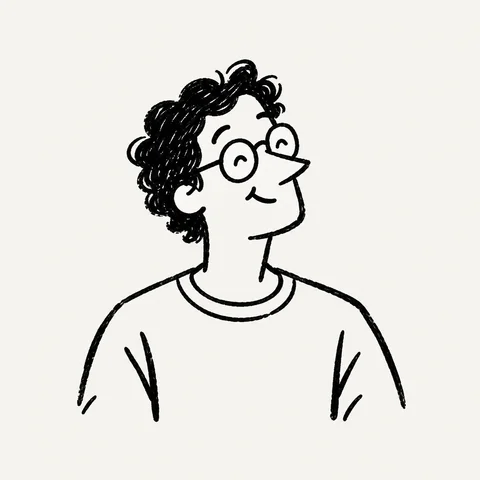
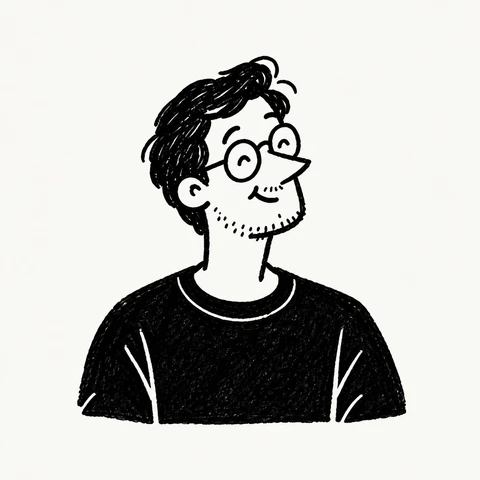
Update contributor portraits and imports for Aaron and Nigel

Changed region(s): [[0.1562, 0.0938, 0.8438, 0.9062]]

diff --git a/components/mini/ProjectInfo.tsx b/components/mini/ProjectInfo.tsx
@@ -1,4 +1,6 @@
 import Image from "next/image";
+import aaronPortrait from "@/public/contributors/aaron.webp";
+import nigelPortrait from "@/public/contributors/nigel.webp";
 import { DeliveryLocationProvider } from "@/components/DeliveryLocation";
 import { siteConfig } from "@/data/site";
 
@@ -159,12 +161,12 @@ export default function ProjectInfo() {
         <h2 id="contributors-title" className="contributors-heading">Contributors building the local food drop</h2>
         <div className="contributors-grid">
           {[
-            { name: "Aaron", role: "May-err", image: "aaron" },
-            { name: "Nigel", role: "Tick Talker", image: "nigel" },
-            { name: "Zara", role: "Silent Knight", image: "zara" },
+            { name: "Aaron", role: "May-err", image: aaronPortrait },
+            { name: "Nigel", role: "Tick Talker", image: nigelPortrait },
+            { name: "Zara", role: "Silent Knight", image: "/contributors/zara.webp" },
           ].map((contributor) => (
             <article className="contributor" key={contributor.name}>
-              <Image src={`/contributors/${contributor.image}.webp`} alt={`Line drawing representing ${contributor.name}`} width={480} height={480} sizes="(max-width: 480px) 160px, 220px" className="contributor-portrait" />
+              <Image src={contributor.image} alt={`Line drawing representing ${contributor.name}`} width={480} height={480} sizes="(max-width: 480px) 160px, 220px" className="contributor-portrait" />
               <h3>{contributor.name}</h3>
               <p className="contributor-role">{contributor.role}</p>
               <p className="contributor-handle">@thetownsquare.xyz</p>

diff --git a/public/contributors/ARTWORK.md b/public/contributors/ARTWORK.md
@@ -4,6 +4,14 @@ Generated with the built-in image generation tool, using `public/hero-three-chef
 
 These are illustrative avatars, not actual likenesses.
 
+## Hair and beard edits — September 19, 2026
+
+Edited using the built-in image generation tool and optimized to 480 × 480 WebP at the existing website paths.
+
+Aaron edit prompt: Give the original Aaron avatar a subtle short mohawk with closely cropped sides and a modest raised central strip of textured black hair, plus a neat short beard and subtle moustache. Preserve his face, smile, pose, collared shirt, composition, margins, off-white background, and imperfect black ink doodle style.
+
+Nigel edit prompt: Use the original Nigel avatar as the edit target and the original Aaron avatar as the hairstyle reference. Replace Nigel’s curly hair with Aaron’s short side-swept hairstyle and add a slight beard with sparse jaw and chin stubble and a subtle moustache. Preserve Nigel’s round glasses, face, smile, pose, crewneck, composition, margins, off-white background, and imperfect black ink doodle style.
+
 ## Prompts
 
 Generate a single square contributor bust portrait. Aaron: a smiling man with short swept hair, casual collared shirt. Imaginary person. Use attached hero artwork as the exact art-style reference: same imperfect textured black ink strokes, organic uneven hand-drawn contours and sparse rough black hair fill. Keep face extremely simple with tiny eyes and small mouth, simplified casual pose like a minimalist editorial person doodle. No chef hats, no food, no text, no frame. Center chest-up figure with generous margins. Plain #f5f4f0 background. Match hero line texture, avoid polished vector lines or realism.
@@ -12,3 +20,6 @@ Generate a single square contributor bust portrait. Nigel: a smiling man with cu
 
 Generate a single square contributor bust portrait. Zara: a smiling woman with shoulder-length wavy hair, casual top. Imaginary person. Use attached hero artwork as the exact art-style reference: same imperfect textured black ink strokes, organic uneven hand-drawn contours and sparse rough black hair fill. Keep face extremely simple with tiny eyes and small mouth, simplified casual pose like a minimalist editorial person doodle. No chef hats, no food, no text, no frame. Center chest-up figure with generous margins. Plain #f5f4f0 background. Match hero line texture, avoid polished vector lines or realism.
 
+## Follow-up edits
+
+Built-in imagegen prompts: Aaron — make the beard modestly fuller, denser and slightly longer around the jaw and chin, preserving all other details. Nigel — change only the crewneck T-shirt to textured black ink with minimal off-white neckline and fold strokes, preserving all other details. Saved over the existing 480 × 480 WebP assets.
